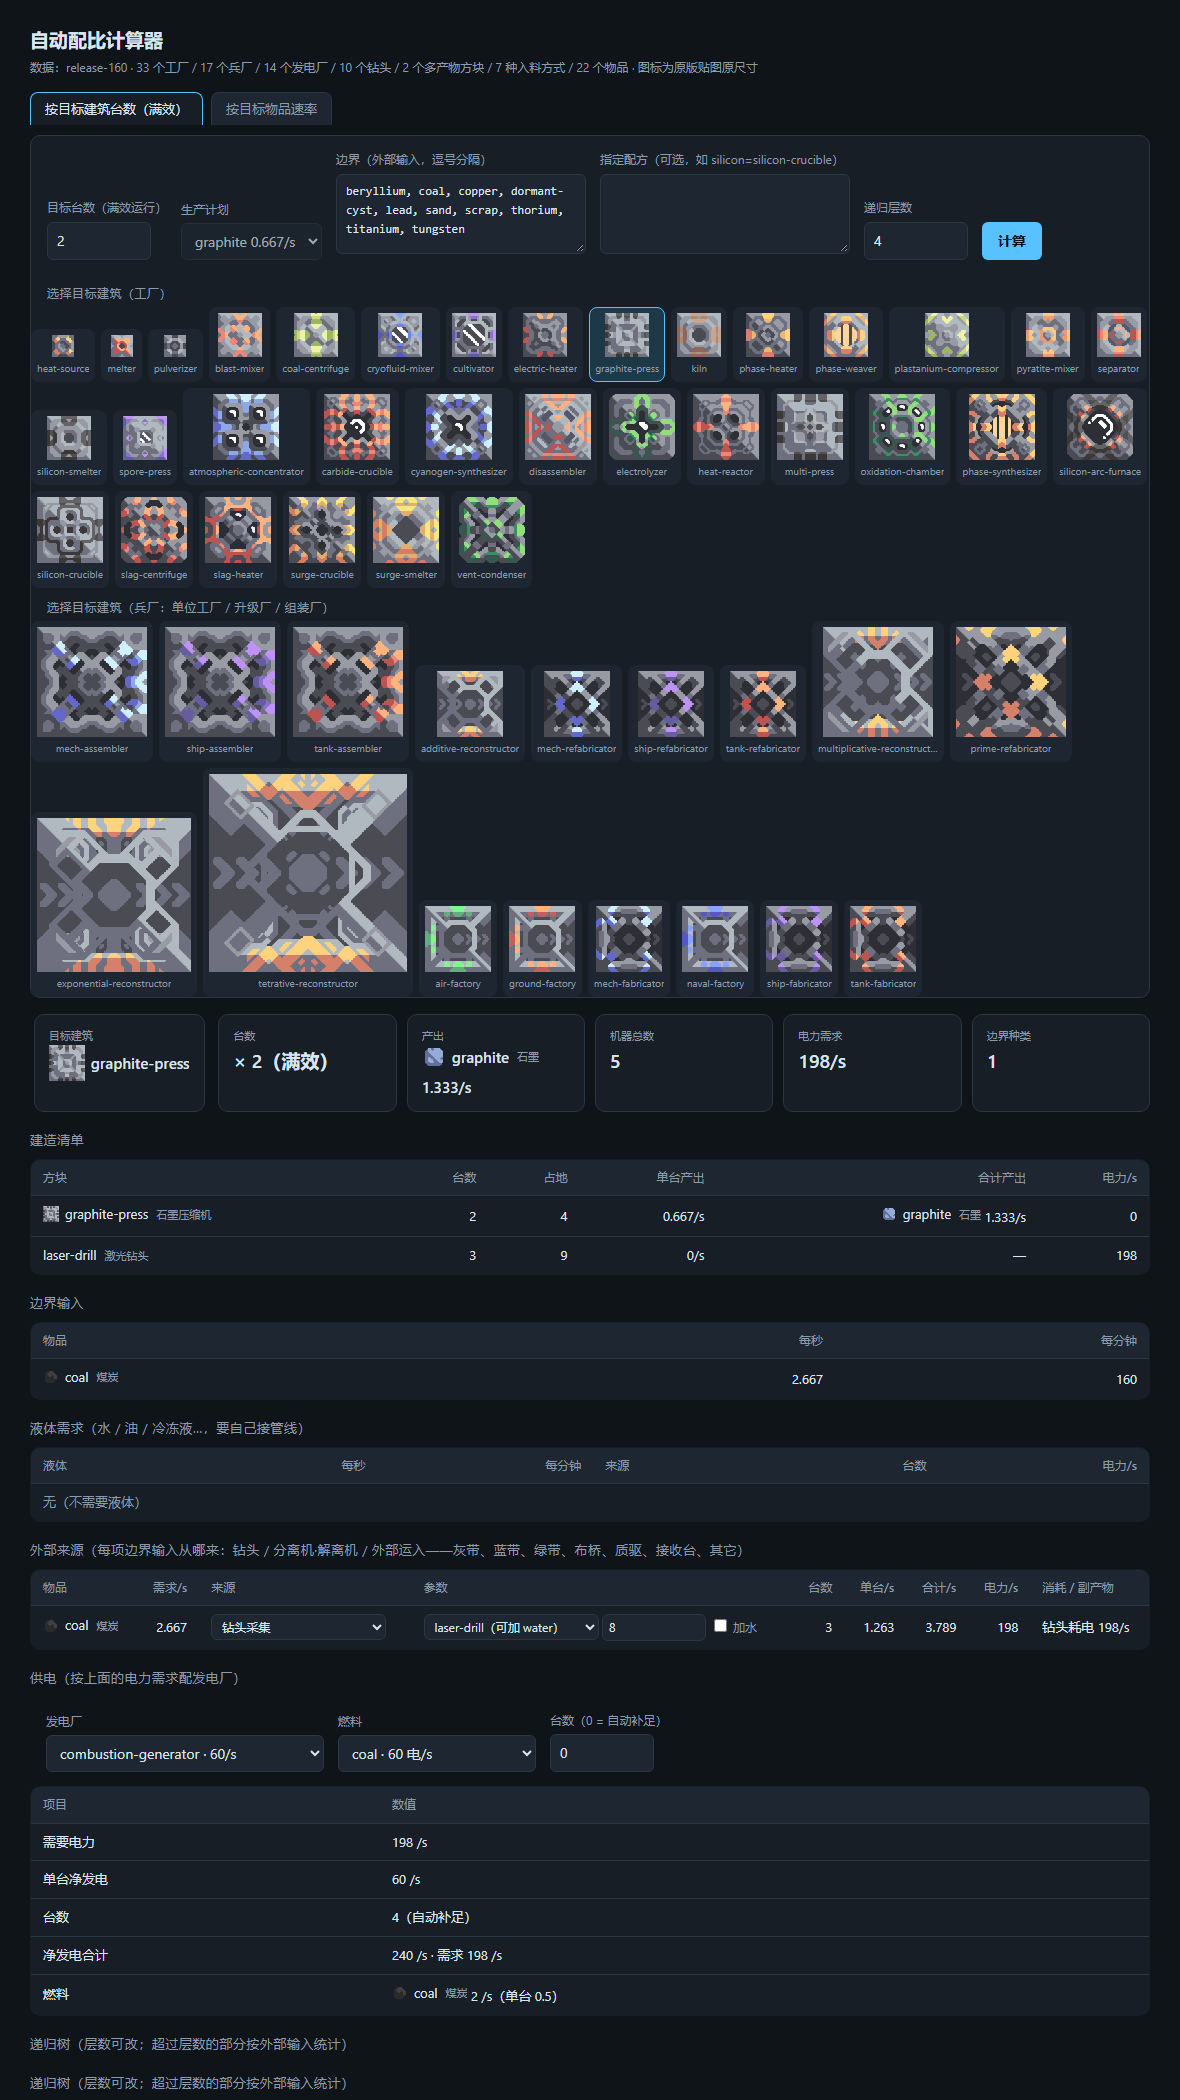
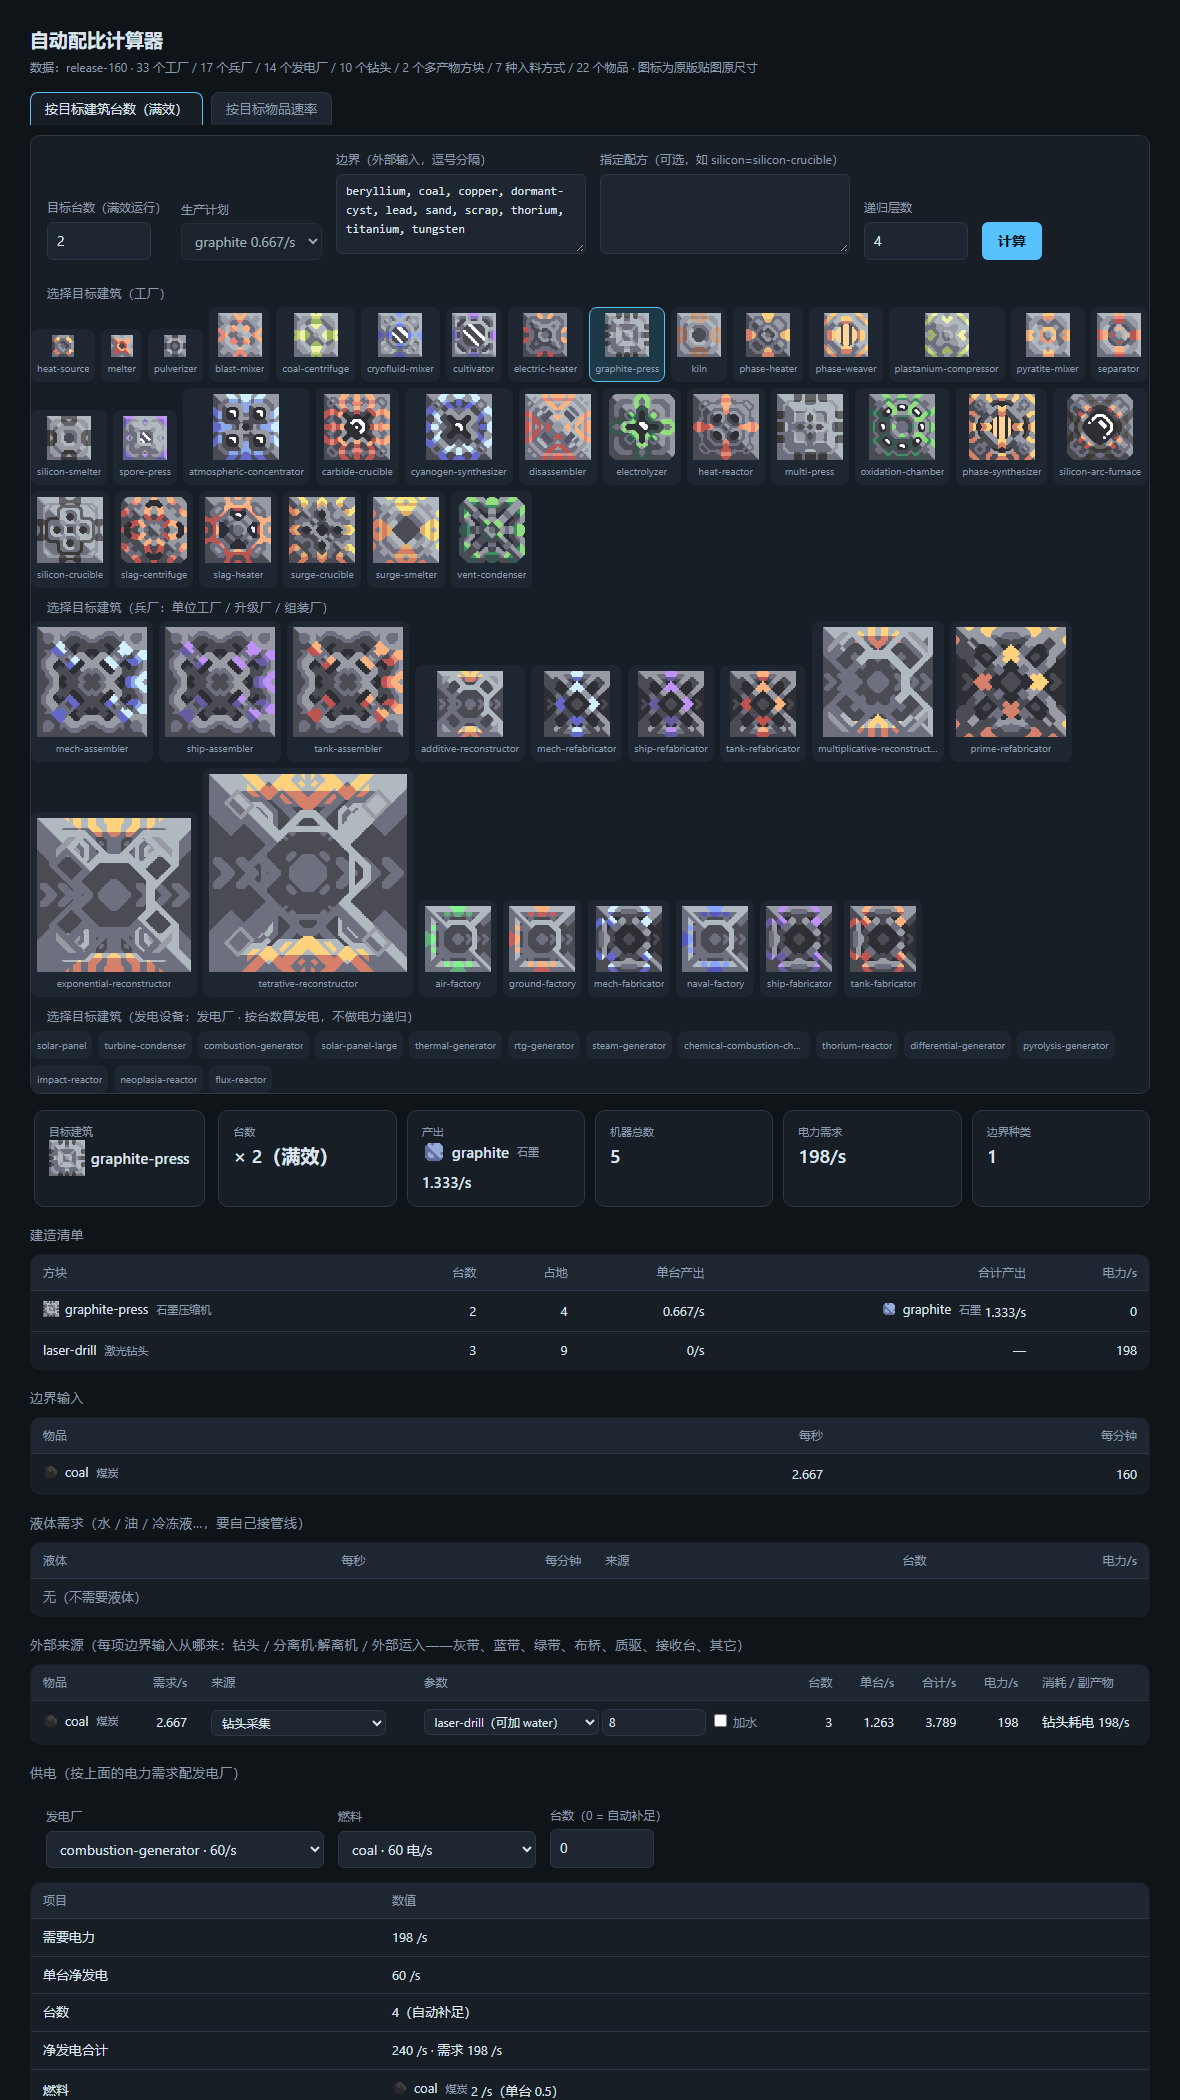
feat(ratio-calc): 14 个发电厂可当目标建筑（按台数算发电，不做电力递归）

diff --git a/ratio-calc/index.html b/ratio-calc/index.html
@@ -144,6 +144,8 @@
       <div class="bgrid" id="bgrid-item"></div>
       <div class="grp">选择目标建筑（兵厂：单位工厂 / 升级厂 / 组装厂）</div>
       <div class="bgrid" id="bgrid-unit"></div>
+      <div class="grp">选择目标建筑（发电设备：发电厂 · 按台数算发电，不做电力递归）</div>
+      <div class="bgrid" id="bgrid-power"></div>
     </div>
 
     <div class="mode-item hidden">
@@ -216,7 +218,7 @@
   var names = idx.items;
   var itemIcon = idx.itemIcons;
   var blockIcon = function (n) { var b = idx.blocks.get(n); return b ? b.icon : ""; };
-  var blockOf = function (n) { return idx.blocks.get(n); };
+  var blockOf = function (n) { return idx.blocks.get(n) || R.anyBlock(idx, n) || null; };
 
   var mode = "building";
   var curBlock = "graphite-press";
@@ -464,7 +466,8 @@
   }
 
   /* ---- 供电表 ---- */
-  function renderPower(demand) {
+  function renderPower(demand, supply) {
+    if (supply) { renderSupply(supply, demand); return; }
     var gname = el("gen").value;
     if (!gname) { el("powertable").innerHTML = ""; return; }
     var fuel = el("genfuel").value;
@@ -490,6 +493,29 @@
         num(l.perSecondEach) + "）"]);
     });
     if (g && g.powerUsage) rows.push(["发电厂自耗电", num(plan.selfUse * (plan.count || 0)) + " /s"]);
+    el("powertable").innerHTML = '<tr><th>项目</th><th>数值</th></tr>' + rows.map(function (r) {
+      return "<tr><td>" + r[0] + '</td><td>' + r[1] + "</td></tr>";
+    }).join("");
+  }
+
+  /* 目标建筑本身是发电厂时：只报发电量/燃料/液体，不去倒推"还要几台发电机"（不做电力递归） */
+  function renderSupply(sup, demand) {
+    var rows = [];
+    rows.push(["本建筑", blockLabel(sup.name, "sm") + " × " + sup.count]);
+    rows.push(["单台净发电", num(sup.netEach) + " /s" + (sup.selfUse ? "（自耗 " + num(sup.selfUse) + "）" : "")]);
+    rows.push(["总发电", num(sup.netTotal || sup.net) + " /s"]);
+    if (sup.fuel) {
+      rows.push(["燃料", itemLabel(sup.fuel.name, "sm") + " " + num(sup.fuel.perSecond) + " /s（单台 " +
+        num(sup.fuel.perSecondEach) + "）"]);
+    } else {
+      rows.push(["燃料", '<span class="dim">不需要燃料（被动发电）</span>']);
+    }
+    (sup.liquids || []).forEach(function (l) {
+      rows.push(["液体", itemLabel(l.name, "sm") + " " + num(l.perSecond) + " /s（单台 " +
+        num(l.perSecondEach) + "）"]);
+    });
+    if (sup.selfUse) rows.push(["自耗电", num(sup.selfUse * sup.count) + " /s"]);
+    rows.push(["说明", '<span class="dim">发电设备不做电力递归：这里只按台数算发电量</span>']);
     el("powertable").innerHTML = '<tr><th>项目</th><th>数值</th></tr>' + rows.map(function (r) {
       return "<tr><td>" + r[0] + '</td><td>' + r[1] + "</td></tr>";
     }).join("");
@@ -613,7 +639,7 @@
   /* ---------------- 建筑选择器 ---------------- */
   var blockCells = {};
   function buildBlockPickers() {
-    var itemBlocks = [], unitBlocks = [];
+    var itemBlocks = [], unitBlocks = [], powerBlocks = [];
     idx.blocks.forEach(function (b) {
       if (b.kind === "unit") unitBlocks.push(b); else itemBlocks.push(b);
     });
@@ -627,13 +653,21 @@
       return list.map(function (b) {
         return '<div class="bcell" data-block="' + esc(b.name) + '" title="' + esc(b.name)
           + (zhOf("blocks", b.name) ? " · " + esc(zhOf("blocks", b.name)) : "") +
-          " · " + b.size + "×" + b.size + (b.power ? " · " + b.power + " 电力/s" : "") + '">' +
+          " · " + b.size + "×" + b.size +
+          (b.gen ? " · 发电 " + num(b.gen) + " 电力/s" : "") +
+          (b.power ? " · " + b.power + " 电力/s" : "") + '">' +
           blockImg(b.name, 22) + '<span class="cn">' + esc(b.name) + '</span></div>';
       }).join("");
     }
+    idx.generators.forEach(function (g) {
+      powerBlocks.push({ name: g.name, size: g.size, icon: g.icon, power: g.powerUsage,
+                         gen: g.perSecond, kind: "generator" });
+    });
+    powerBlocks.sort(function (a, b) { return a.gen - b.gen || (a.name < b.name ? -1 : 1); });
     el("bgrid-item").innerHTML = html(itemBlocks);
     el("bgrid-unit").innerHTML = html(unitBlocks);
-    ["bgrid-item", "bgrid-unit"].forEach(function (id) {
+    el("bgrid-power").innerHTML = html(powerBlocks);
+    ["bgrid-item", "bgrid-unit", "bgrid-power"].forEach(function (id) {
       Array.prototype.slice.call(el(id).children || []).forEach(function (c) {
         if (c.getAttribute && c.getAttribute("data-block")) blockCells[c.getAttribute("data-block")] = c;
       });
@@ -850,7 +884,8 @@
         var selB = blockOf(curBlock);
         var ch = (selB && selB.kind === "unit") ? R.chainFromBlock(DATA, curBlock, count) : null;
         res = ch ? chainToRes(ch)
-                 : R.expandBuilding(DATA, curBlock, count, { boundary: boundary, force: forced, plan: plan, maxDepth: depth });
+                 : R.expandBuilding(DATA, curBlock, count, { boundary: boundary, force: forced, plan: plan, maxDepth: depth,
+                                                   fuel: (el("genfuel") && el("genfuel").value) || null });
       } else {
         var rate = parseFloat(el("rate").value);
         if (!(rate > 0)) { alert("速率要大于 0"); return; }
@@ -869,7 +904,7 @@
     var cards;
     if (mode === "building") {
       var prodText = (res.products || []).map(function (p) {
-        return (p.type === "unit" ? "⚔ " : "") + (p.type === "unit"
+        return (p.type === "unit" ? "⚔ " : p.type === "power" ? "⚡ " : "") + (p.type !== "item"
           ? esc(p.name) + " " + num(p.rate) + "/s"
           : itemLabel(p.name, "sm") + " " + num(p.rate) + "/s");
       }).join(" · ");
@@ -922,7 +957,7 @@
     renderSources(res);
     renderLiquids(res);
     bindSourceEvents();
-    renderPower(res.power);
+    renderPower(res.power, res.supply);
     renderChain();
 
     el("tree").innerHTML = res.tree
@@ -972,8 +1007,10 @@
     var cmd;
     if (mode === "building") {
       var b = blockOf(curBlock);
-      if (b && b.kind !== "unit") {
-        var rate2 = b.outputs[0] ? b.outputs[0].amount * b.cps * (parseInt(el("count").value, 10) || 1) : 0;
+      if (b && b.kind === "generator") {
+        cmd = "# 发电设备：按台数算发电量（" + num(res.supply && res.supply.net) + "/s），没有等价的 mbo calc 命令";
+      } else if (b && b.kind !== "unit" && b.outputs && b.outputs.length) {
+        var rate2 = b.outputs[0].amount * b.cps * (parseInt(el("count").value, 10) || 1);
         cmd = "python -X utf8 -m mbo calc " + b.outputs[0].name + ":" + num(rate2) + "/s" +
           (boundary.length ? " --boundary " + boundary.join(",") : "") +
           " --force " + b.outputs[0].name + "=" + curBlock;
@@ -1046,9 +1083,9 @@
   el("count").addEventListener("change", run);
   el("plan").addEventListener("change", run);
   el("depth").addEventListener("change", run);
-  el("gen").addEventListener("change", function () { syncGenFuel(); if (lastRes) renderPower(lastRes.power); });
-  el("genfuel").addEventListener("change", function () { if (lastRes) renderPower(lastRes.power); });
-  el("gencount").addEventListener("change", function () { if (lastRes) renderPower(lastRes.power); });
+  el("gen").addEventListener("change", function () { syncGenFuel(); if (lastRes) renderPower(lastRes.power, lastRes.supply); });
+  el("genfuel").addEventListener("change", function () { if (lastRes) renderPower(lastRes.power, lastRes.supply); });
+  el("gencount").addEventListener("change", function () { if (lastRes) renderPower(lastRes.power, lastRes.supply); });
   el("chainline").addEventListener("change", function () { renderChain(); });
 
   // 测试钩子：无浏览器环境里手动切模式 / 触发计算
@@ -1064,7 +1101,7 @@
                        syncGenFuel();
                        if (fuel) el("genfuel").value = fuel;
                        if (count != null) el("gencount").value = String(count);
-                       if (lastRes) renderPower(lastRes.power);
+                       if (lastRes) renderPower(lastRes.power, lastRes.supply);
                        return el("powertable").innerHTML;
                      },
                      chain: function (start, rate) {

diff --git a/ratio-calc/core.js b/ratio-calc/core.js
@@ -22,6 +22,11 @@
    * 网页下拉 / CLI / 卡片都读这一个常量；要换成绿带或接收台只改这一行。 */
   var DEFAULT_CHANNEL = "belt-blue";
 
+  /* 发电设备：建筑页选中发电厂时的默认燃料（不做电力递归——发电厂自己耗的电只用"自耗"字段展示，
+   * 不再倒推需要更多发电厂，避免无限套娃）。 */
+  var DEFAULT_GENERATOR = "combustion-generator";
+  var DEFAULT_FUEL = "coal";
+
   function buildIndex(data) {
     var blocks = new Map();
     (data.blocks || []).forEach(function (b) {
@@ -313,9 +318,59 @@
    * opts = { boundary:[], force:{}, plan: 0, maxDepth: 12 }
    * 返回 { block, count, products:[{name,type,rate}], inputs:[{name,amount}], machines, ... }
    */
+  /* 发电设备当"目标建筑"：算总发电、燃料、液体、自耗电。
+   * 不递归电力：发电厂的自耗只显示，不再换算成更多发电厂。 */
+  function expandGenerator(data, genName, count, opts) {
+    var idx = indexOf(data);
+    opts = opts || {};
+    var g = idx.generators.get(genName);
+    if (!g) throw new Error("未知发电厂：" + genName);
+    count = Math.max(1, Math.floor(count));
+    var fuel = null;
+    if ((g.fuels || []).length) {
+      var want = opts.fuel || DEFAULT_FUEL;
+      fuel = g.fuels.filter(function (f) { return f[0] === want; })[0]
+          || g.fuels.filter(function (f) { return f[0] === g.fuels[0][0]; })[0];
+    }
+    var grossEach = fuel ? fuel[2] : g.perSecond;
+    var netEach = grossEach - (g.powerUsage || 0);
+    var res = {
+      mode: "building", block: genName, count: count, plan: 0, planTotal: 0,
+      products: [{ name: "电力", type: "power", rate: round(netEach * count) }],
+      inputs: [], tree: null, warnings: [], order: [], liquidExtra: {},
+      machines: {}, demand: {}, power: 0, extraPower: 0
+    };
+    if (fuel) {
+      res.inputs.push({ name: fuel[0], amount: round(fuel[1] * count) });
+      res.demand[fuel[0]] = round(fuel[1] * count);
+    }
+    (g.liquids || []).forEach(function (l) {
+      res.liquidExtra[l[0]] = (res.liquidExtra[l[0]] || 0) + l[1] * count;
+    });
+    res.machines[genName] = count;
+    res.machines = sortMachines(res.machines);
+    res.supply = {
+      name: genName, icon: g.icon, count: count,
+      grossEach: round(grossEach), netEach: round(netEach),
+      gross: round(grossEach * count), net: round(netEach * count),
+      grossTotal: round(grossEach * count), netTotal: round(netEach * count),
+      surplus: round(netEach * count),
+      selfUse: round((g.powerUsage || 0) * count),
+      selfUseEach: round(g.powerUsage || 0),
+      fuel: fuel ? { name: fuel[0], perSecondEach: fuel[1], perSecond: round(fuel[1] * count) } : null,
+      liquids: (g.liquids || []).map(function (l) {
+        return { name: l[0], perSecondEach: l[1], perSecond: round(l[1] * count) };
+      })
+    };
+    recalcPower(idx, res);          // 发电厂 power 记 0，这里只汇总液体
+    if (opts.sources) applySources(data, res, opts.sources);
+    return res;
+  }
+
   function expandBuilding(data, blockName, count, opts) {
     var idx = indexOf(data);
     opts = opts || {};
+    if (idx.generators && idx.generators.get(blockName)) return expandGenerator(data, blockName, count, opts);
     var b = idx.blocks.get(blockName);
     if (!b) throw new Error("未知方块：" + blockName);
     if (!(count > 0)) throw new Error("台数要大于 0");
@@ -411,7 +466,8 @@
     if (g) {
       return { name: name, kind: "generator", size: g.size, power: 0, icon: g.icon,
                craftTime: 0, cps: 0, inputs: [], outputs: [], plans: [], upgrades: [],
-               factoryKind: "", perSecond: g.perSecond };
+               factoryKind: "", perSecond: g.perSecond, powerUsage: g.powerUsage,
+               fuels: g.fuels || [], liquids: g.liquids || [] };
     }
     var p = idx.pumps.get(name);
     if (p) {
@@ -877,6 +933,10 @@
       var outputs = [];
       if (b && b.kind === "drill") {
         outputs = ["采集（见外部来源）"];
+      } else if (b && b.kind === "generator") {
+        var sup = result.supply || {};
+        outputs = ["发电 " + round((sup.net || 0)) + "/s" +
+                   (sup.fuel ? "，烧 " + sup.fuel.name + " " + round(sup.fuel.perSecond) + "/s" : "")];
       } else if (b && b.kind === "pump") {
         outputs = ["抽 " + b.liquid + " " + round(b.perSecond * count) + "/s"];
       } else if (b && b.kind === "unit") {
@@ -901,9 +961,11 @@
         size: b ? b.size : 0,
         powerEach: b ? b.power : 0,
         powerTotal: b ? b.power * count : 0,
-        outItems: b ? b.outputs.map(function (o) {
-          return { name: o.name, type: "item", perSecond: o.amount * b.cps * count };
-        }) : [],
+        outItems: b ? (b.kind === "generator"
+          ? [{ name: "电力", type: "power", perSecond: round((result.supply && result.supply.net) || 0) }]
+          : b.outputs.map(function (o) {
+              return { name: o.name, type: "item", perSecond: o.amount * b.cps * count };
+            })) : [],
         rateEach: b ? (b.kind === "unit"
           ? ((b.plans && b.plans[0]) ? b.plans[0].perSecond : b.cps)
           : (b.outputs.length ? b.outputs[0].amount * b.cps : 0)) : 0,
@@ -914,7 +976,10 @@
 
   function round(x) { return Math.round(x * 1000) / 1000; }
 
-  var api = { buildIndex: buildIndex, indexOf: indexOf,
+  var api = { DEFAULT_CHANNEL: DEFAULT_CHANNEL,
+              DEFAULT_GENERATOR: DEFAULT_GENERATOR, DEFAULT_FUEL: DEFAULT_FUEL,
+              expandGenerator: expandGenerator,
+              buildIndex: buildIndex, indexOf: indexOf,
               expand: expand, expandBuilding: expandBuilding,
               machineRows: machineRows, anyBlock: anyBlock,
               drillRate: drillRate, drillsNeeded: drillsNeeded,

diff --git a/ratio-calc/test_card.py b/ratio-calc/test_card.py
@@ -155,7 +155,18 @@ ok("建筑模式：配比在前、外部入料在后、默认蓝带带条数", c
 ok("物品模式：配比在前，电力写对", case_item)
 ok("兵厂链：标题/各级/总额，配比在前", case_chain)
 ok("兵厂链只建 T1：0 台层级写「×0（不建）」", case_chain_partial)
+def case_generator():
+    r = run_cli(["--block", "steam-generator", "--count", "2"])
+    t = flat(r)
+    assert "工厂配比" in t, t
+    assert "电力 660/s" in t, t
+    assert idx_of(r, "外部入料") > idx_of(r, "工厂配比"), texts(r)
+    assert "供电" in t, t
+    check_width(r)
+
+
 ok("渲染：尺寸一致、PNG 非空", case_png)
+ok("发电设备：配比在前、发电量正确、带供电段", case_generator)
 
 print("\n通过 %d 项，失败 %d 项" % (pass_n, fail_n))
 sys.exit(1 if fail_n else 0)

diff --git a/ratio-calc/_shots.py b/ratio-calc/_shots.py
@@ -17,6 +17,8 @@ shots = [
     ("screenshot-multi-power.png",
      "?mode=building&block=silicon-smelter&count=3&depth=4&boundary=coal,sand"
      "&src=sand:multi:disassembler&gen=steam-generator&genfuel=coal&gencount=0", "1180,2200"),
+    ("screenshot-generator.png",
+     "?mode=building&block=steam-generator&count=2&genfuel=coal", "1180,2000"),
     ("screenshot-unit-factory.png", "?mode=building&block=ground-factory&count=2&depth=4", "1180,2200"),
     ("screenshot-unit-chain.png",
      "?mode=building&block=tetrative-reconstructor&count=5&depth=4", "1180,2700"),

diff --git a/ratio-calc/card.py b/ratio-calc/card.py
@@ -192,7 +192,7 @@ def _machine_section(c, res):
         if m.get("powerTotal"):
             bits.append("电 %s/s" % fmt(m["powerTotal"]))
         outs = [o for o in (m.get("outItems") or []) if o.get("perSecond")]
-        if outs and m.get("kind") in ("item", "unit"):
+        if outs and m.get("kind") in ("item", "unit", "generator"):
             bits.append("、".join("%s %s/s" % (o["name"], fmt(o["perSecond"])) for o in outs[:2]))
         c.row(m.get("icon"), m.get("name") or "?", "×%d" % int(m.get("count") or 0),
               " · ".join(bits) or None)

diff --git a/docs/本地知识库.md b/docs/本地知识库.md
@@ -3,7 +3,7 @@
 > 给 mlog 工具链配的离线检索库：把仓库里的规范、SKILL、工具源码切成块，做**向量 + 全文混合召回**，可选 cross-encoder 重排。
 > 目的：让“查一条规则/一个命令/一处源码”从“翻文件 + 猜关键词”变成一次带出处的检索，减少每轮塞进上下文的原文。
 
-当前状态（2026-11-08，兵厂链并进「按目标建筑台数」页之后重建）：**7190 块 / 59 个文件**（含 `docs/游戏速查/`），索引在 `out/_kb/kb.sqlite3`。
+当前状态（2026-11-08，加进 14 个发电厂当目标建筑之后重建）：**7550 块 / 95 个文件**（含 `docs/游戏速查/`；`knowledge/` 全库并入后语料变大），索引在 `out/_kb/kb.sqlite3`。
 
 ---
 
